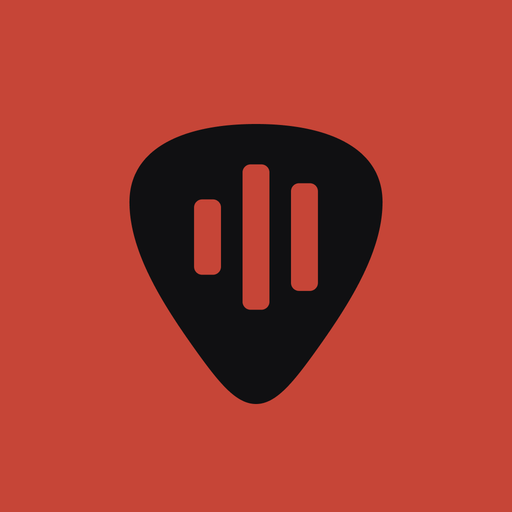
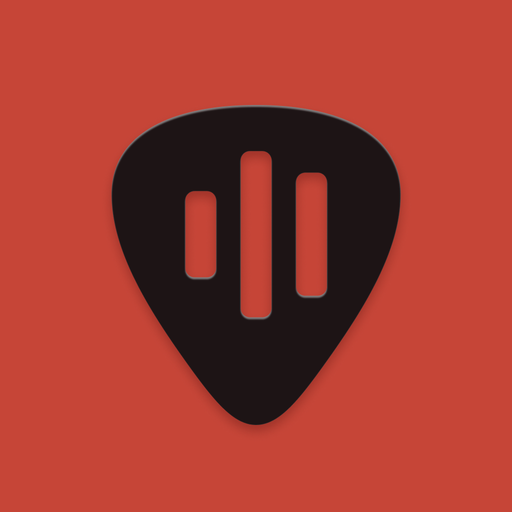
feat: 앱 아이콘을 검은 글래스 피크로 바꾸고 크게
배경은 단색 주홍 그대로 두고, 피크를 1024 기준 높이 640으로 키운다.
유리 느낌은 그라데이션 없이 피크 외곽·막대 구멍 테두리의 얇은 빛, 글래스 반사광,
옅은 그림자로만 낸다. 파비콘은 글래스가 안 보이는 크기라 단색 피크 그대로 둔다.
원본은 Figma "App Icon / 1024 ✓ 사용 중"(581:23693).

diff --git a/index.html b/index.html
@@ -2,9 +2,10 @@
 <html lang="ko">
   <head>
     <meta charset="UTF-8" />
-    <!-- 앱 아이콘: 주홍(#C64537) 바탕 + 검은 피크 심볼(글자 없이). 원본은 Figma "Brand — 앱 아이콘"(574:23689).
+    <!-- 앱 아이콘: 단색 주홍(#C64537) 바탕 + 검은 글래스 피크(테두리 빛·반사광, 그라데이션 없음).
+         원본은 Figma "Brand — 앱 아이콘"(574:23689)의 "App Icon / 1024 ✓ 사용 중"(581:23693).
          홈 화면용 PNG는 모서리를 OS가 깎으니 꽉 찬 정사각형으로 두고, 피크는 안드로이드 원형 자르기 안전 영역(지름 80%) 안이라 같은 파일을 maskable로도 쓴다.
-         브라우저 탭 파비콘(SVG·32px)은 같은 피크를 둥근 사각형에 조금 더 크게 담았다. -->
+         브라우저 탭 파비콘(SVG·32px)은 글래스 효과가 안 보이는 크기라 단색 피크를 둥근 사각형에 담았다. -->
     <link rel="icon" type="image/svg+xml" href="/favicon.svg" />
     <link rel="icon" type="image/png" sizes="32x32" href="/favicon-32.png" />
     <link rel="apple-touch-icon" href="/apple-touch-icon.png" />
